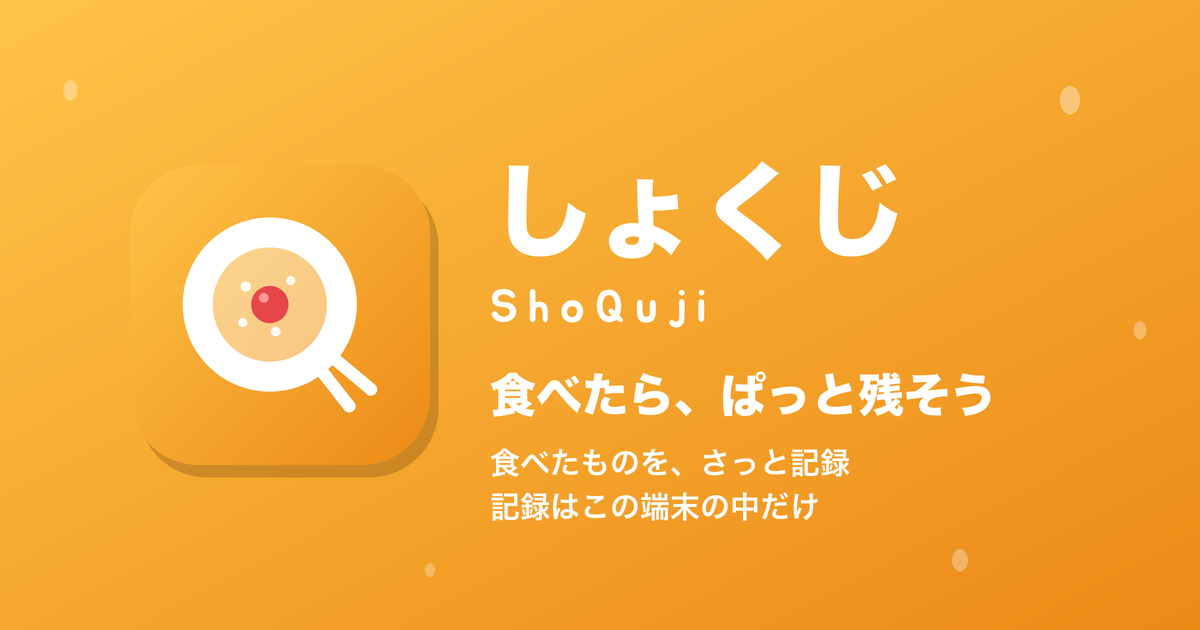
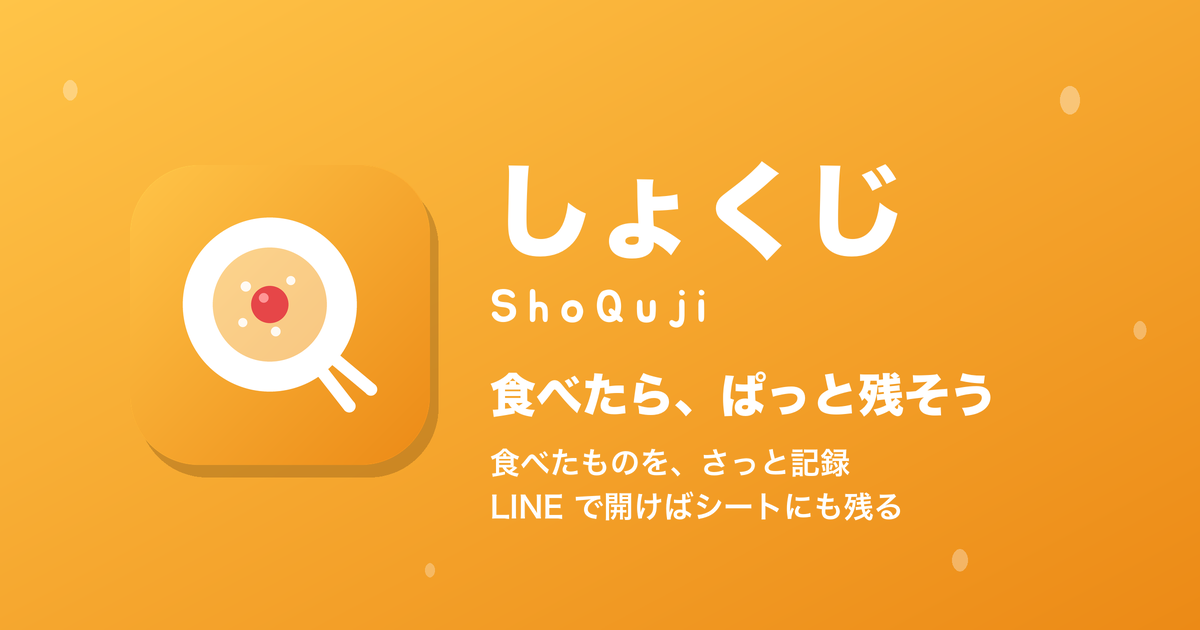
「記録はこの端末の中だけ」の古い説明を直す（OGP の画像と説明・manifest・はじめての使い方・README）：LINE で開くと食事記録ボットのシートにも残る。「💬 LINE で使う」に、LINE で開く良さを3行（シートにも残る・機種を変えてもボットの記録が出る・トークからも記録とお知らせ）。読みこむファイルの版をそろえる

Changed region(s): [[0.4008, 0.7841, 0.7708, 0.8444]]

diff --git a/index.html b/index.html
@@ -4,13 +4,13 @@
 <meta charset="UTF-8">
 <meta name="viewport" content="width=device-width, initial-scale=1, viewport-fit=cover">
 <title>しょくじ｜食べたものを、さっと記録</title>
-<meta name="description" content="しょくじ（ShoQuji）。食べたものとカロリー・PFC をさっと記録して、1日の合計や1週間のふりかえりを見られます。記録はこの端末の中だけ。LINE にカードで送れます。">
+<meta name="description" content="しょくじ（ShoQuji）。食べたものとカロリー・PFC をさっと記録して、1日の合計や1週間のふりかえりを見られます。ブラウザでは記録はこの端末の中に、LINE で開くと食事記録ボットのシートにも残ります。LINE にカードで送れます。">
 <meta property="og:type" content="website">
 <meta property="og:site_name" content="しょくじ（ShoQuji）">
 <meta property="og:title" content="しょくじ｜食べたものを、さっと記録">
-<meta property="og:description" content="食べたものをさっと記録。1日の合計・1週間のふりかえり。記録はこの端末の中だけで、LINE にカードで送れます。">
+<meta property="og:description" content="食べたものをさっと記録。1日の合計・1週間のふりかえり。LINE で開くと食事記録ボットのシートにも残り、トークからも記録できます。">
 <meta property="og:url" content="https://katsuan.github.io/shoquji/">
-<meta property="og:image" content="https://katsuan.github.io/shoquji/ogp.png?v=4">
+<meta property="og:image" content="https://katsuan.github.io/shoquji/ogp.png?v=5">
 <meta property="og:image:width" content="1200">
 <meta property="og:image:height" content="630">
 <meta property="og:image:alt" content="しょくじ（ShoQuji）：食べたものを、さっと記録">
@@ -28,7 +28,7 @@
 <link href="https://fonts.googleapis.com/css2?family=M+PLUS+Rounded+1c:wght@400;700;800&display=swap" rel="stylesheet">
 <!-- Q キット（おくるんの共通部品）。色と字は style.css の :root で、しょくじの色に -->
 <link rel="stylesheet" href="https://katsuan.github.io/line-share/shared/ui.css">
-<link rel="stylesheet" href="style.css?v=202610250200">
+<link rel="stylesheet" href="style.css?v=202610250300">
 </head>
 <body>
 <main class="ls-page ls-stack">
@@ -106,6 +106,12 @@
       <button class="line-guide-close" type="button" data-close-line-guide aria-label="LINE の案内を閉じる">✕ 閉じる</button>
     </div>
     <!-- 「LINEで開く」は、おくるん（Q キット）の共通の案内（LineShareLiff.outsideHelp） -->
+    <!-- LINE で開く良さ（言い切れることだけ） -->
+    <ul class="ls-hint line-merit">
+      <li>💾 LINE で開くと、記録が食事記録ボットのシートにも残ります。ブラウザだけの記録は、履歴を消したり機種を変えたりすると消えることがあります</li>
+      <li>📱 機種を変えても、LINE で開けばボットに入った記録が出ます（ここ60日分）</li>
+      <li>💬 ボットのトークに食べたものを送っても記録できます。20時の「記録がない日」のお知らせも選べます</li>
+    </ul>
     <div id="lineOutside"></div>
     <p class="ls-hint">横にめくると、4コマで使い方がわかります（閉じても「⚙ LINE とつなぐ」からまた見られます）。</p>
     <div class="line-guide" role="list" aria-label="LINE での使い方">
@@ -245,7 +251,7 @@
 <script src="https://katsuan.github.io/line-share/shared/ui.js" defer></script>
 <!-- 「LINEで開く」の共通の案内（LineShareLiff.outsideHelp） -->
 <script src="https://katsuan.github.io/line-share/shared/liff.js" defer></script>
-<script type="module" src="app.js?v=202610250200"></script>
+<script type="module" src="app.js?v=202610250300"></script>
 <script src="https://katsuan.github.io/line-share/shared/tool-share.js" data-tool="shoquji" defer></script>
 <!-- 電波がなくても開けるように（sw.js） -->
 <script>if ("serviceWorker" in navigator) navigator.serviceWorker.register("./sw.js").catch(() => {});</script>

diff --git a/app.js b/app.js
@@ -1,14 +1,14 @@
 // しょくじ（ShoQuji）：画面の操作。記録はこの端末の中だけ（js/store.js）、計算は js/stats.js
-import { MEALS, addLog, exportJson, importJson, load, markSent, num, removeLog, reset, restoreLog, save, updateLog } from "./js/store.js?v=202610250200";
-import { addDays, fmt, label, logsOf, mealNow, menus, streak, totals, week, ymd } from "./js/stats.js?v=202610250200";
-import { botLogsForView, cleanGasUrl, fromBotMeal, inLineApp, lineLogMessage, planSync, startLineLog, toBotMeal } from "./js/linelog.js?v=202610250200";
-import { LINE_LOG, OPEN_URL } from "./js/line-config.js?v=202610250200";
-import { byKey, dn, getProfile, initBotMenu, readProfile, resetProfile, saveProfile } from "./js/bot-menu.js?v=202610250200";
-import { cardUrl } from "./js/card.js?v=202610250200";
-import { writeDays } from "./js/days.js?v=202610250200";
-import { initLineGuide } from "./js/line-guide.js?v=202610250200";
-import { readLink } from "./js/link.js?v=202610250200";
-import { cancelRemoval, isWaiting, queueRemoval, waitingOwnIds } from "./js/removals.js?v=202610250200";
+import { MEALS, addLog, exportJson, importJson, load, markSent, num, removeLog, reset, restoreLog, save, updateLog } from "./js/store.js?v=202610250300";
+import { addDays, fmt, label, logsOf, mealNow, menus, streak, totals, week, ymd } from "./js/stats.js?v=202610250300";
+import { botLogsForView, cleanGasUrl, fromBotMeal, inLineApp, lineLogMessage, planSync, startLineLog, toBotMeal } from "./js/linelog.js?v=202610250300";
+import { LINE_LOG, OPEN_URL } from "./js/line-config.js?v=202610250300";
+import { byKey, dn, getProfile, initBotMenu, readProfile, resetProfile, saveProfile } from "./js/bot-menu.js?v=202610250300";
+import { cardUrl } from "./js/card.js?v=202610250300";
+import { writeDays } from "./js/days.js?v=202610250300";
+import { initLineGuide } from "./js/line-guide.js?v=202610250300";
+import { readLink } from "./js/link.js?v=202610250300";
+import { cancelRemoval, isWaiting, queueRemoval, waitingOwnIds } from "./js/removals.js?v=202610250300";
 
 const $ = (id) => document.getElementById(id);
 
@@ -782,6 +782,6 @@ document.addEventListener("visibilitychange", () => {
 // はじめての人にだけ、使い方を3つ（「わかった」で消え、二度と出さない）
 window.LineShareUI?.firstTip(
   "shoquji",
-  ["食べたものを入れて「＋ 記録する」。前に食べたものは、下のボタンを押すと入ります", "記録の名前を押すと直せます。✕ で消しても「元に戻す」で戻せます", "記録はこの端末の中だけ。💬 LINEで送ると、カードで見せられます"],
+  ["食べたものを入れて「＋ 記録する」。前に食べたものは、下のボタンを押すと入ります", "記録の名前を押すと直せます。✕ で消しても「元に戻す」で戻せます", "ブラウザでは記録はこの端末の中だけ。LINE で開くと、食事記録ボットのシートにも残ります"],
   document.querySelector(".days")
 );

diff --git a/js/bot-menu.js b/js/bot-menu.js
@@ -3,9 +3,9 @@
 //   - 目標・お知らせ・よく記録するものの固定を、ボットにも送る（saveProfile）
 //   - 「📌 よく記録するもの・MYメニュー」の欄：固定と並べかえ、MYメニューをさがして直す、LINE のリッチメニュー「⚡ よく記録」の見本と作りなおし
 // 画面の残り（記録・一覧など）とは、initBotMenu で受けとる ctx でつなぐ
-import { fmt } from "./stats.js?v=202610250200";
-import { lineLogMessage } from "./linelog.js?v=202610250200";
-import { drawQuickMenu, LAYOUT as RICH_LAYOUT } from "./meal-richmenu.js?v=202610250200";
+import { fmt } from "./stats.js?v=202610250300";
+import { lineLogMessage } from "./linelog.js?v=202610250300";
+import { drawQuickMenu, LAYOUT as RICH_LAYOUT } from "./meal-richmenu.js?v=202610250300";
 
 const $ = (id) => document.getElementById(id);
 const esc = (t) => String(t ?? "").replace(/[&<>"']/g, (c) => ({ "&": "&amp;", "<": "&lt;", ">": "&gt;", '"': "&quot;", "'": "&#39;" })[c]);

diff --git a/js/meal-richmenu.js b/js/meal-richmenu.js
@@ -2,7 +2,7 @@
 // ボタンの位置は、ボットの GAS（4_ui.richmenu.gs の RICH_MENU_LAYOUT）と同じ。描く字・色はボットの色（テラコッタ）のまま
 //   しょくじが描くのは、その人の「⚡ よく記録」タブだけ（よく記録するもの 6 品／ほかを入力・並べかえ）。
 //   全員共通の「📝 記録」の画像は、img/meal-richmenu-main.png（ボットの GAS が使う）
-import { fmt } from "./stats.js?v=202610250200";
+import { fmt } from "./stats.js?v=202610250300";
 
 export const LAYOUT = { width: 2500, height: 1686, tabHeight: 250, quickRows: 2, quickCols: 3, quickFooterHeight: 236, quickCount: 6 };
 const C = { bg: "#FBF3EE", card: "#FFFFFF", accent: "#C8553D", accentSoft: "#FDEEE8", ink: "#2D211C", sub: "#6B5E57", line: "#EFE1D9" };

diff --git a/js/link.js b/js/link.js
@@ -1,8 +1,8 @@
 // 食事記録ボットのカード・リッチメニューから開いたとき（?mode=input|logs|summary|quick&meal=…&menu=…&mealDate=…&logId=…）の指定を読む
 // LINE の中では LIFF が ?〜 に戻して届く。ブラウザで liff.line.me を開いたときは liff.state に入って届く
 // 受けるのは、日付・食事・名前・数字・どこを見るかだけ（つなぎ先などは受けとらない。W5）
-import { MEALS, num } from "./store.js?v=202610250200";
-import { addDays, ymd } from "./stats.js?v=202610250200";
+import { MEALS, num } from "./store.js?v=202610250300";
+import { addDays, ymd } from "./stats.js?v=202610250300";
 
 export function readLink(href = location.href) {
   const url = new URL(href);

diff --git a/docs/linelog-setup.html b/docs/linelog-setup.html
@@ -7,7 +7,7 @@
 <title>しょくじ｜自分の食事記録ボットとつなぐ</title>
 <link rel="icon" href="../icon.svg" type="image/svg+xml">
 <link rel="stylesheet" href="https://katsuan.github.io/line-share/shared/ui.css">
-<link rel="stylesheet" href="../style.css?v=202610250200">
+<link rel="stylesheet" href="../style.css?v=202610250300">
 <style>.doc h2 { margin: 1.4em 0 .4em; font-size: 18px; } .doc li { margin: .3em 0; } .doc code { overflow-wrap: anywhere; } .doc pre { overflow-x: auto; padding: 10px; border-radius: 10px; background: var(--ls-surface-sub); font-size: 13px; }</style>
 </head>
 <body>

diff --git a/js/linelog.js b/js/linelog.js
@@ -5,7 +5,7 @@
 // - ブラウザで開いたとき・設定が空のときは何もしない（しょくじは今までどおり端末の中だけ）
 // - つくりは、つづく（q-tuzuq）の js/linelog.js を写したもの。ボット側の受け口は line-meal-project の 6_web/6_webapp.gs
 //   （submitMealBatch・listMealLogs）
-import { LINE_LOG } from "./line-config.js?v=202610250200";
+import { LINE_LOG } from "./line-config.js?v=202610250300";
 
 const SDK = "https://static.line-scdn.net/liff/edge/2/sdk.js";
 const TIMEOUT_MS = 15000;

diff --git a/js/card.js b/js/card.js
@@ -1,6 +1,6 @@
 // 「💬 LINEで送る」のカード（おくるんのお知らせカード。line-share の shared/oqrn.js）と、食事記録ボットが読む記録用の文字
-import { MEALS } from "./store.js?v=202610250200";
-import { fmt, label } from "./stats.js?v=202610250200";
+import { MEALS } from "./store.js?v=202610250300";
+import { fmt, label } from "./stats.js?v=202610250300";
 
 const PAGE_URL = "https://katsuan.github.io/shoquji/";
 const CARD_COLOR = "#EC8A16"; // ロゴの玉子焼きの黄色

diff --git a/style.css b/style.css
@@ -179,3 +179,6 @@ body {
 .scale-row { align-items: center; gap: 6px; }
 .scale-row .scale-label { color: var(--ls-subtext); font-size: 13px; font-weight: 700; }
 .scale-row .ls-chip { min-height: 44px; }
+
+/* LINE で開く良さ（「💬 LINE で使う」の上。つづくと同じ形） */
+.line-merit { display: grid; gap: 4px; margin: 0 0 8px; padding-left: 0; list-style: none; }

diff --git a/js/stats.js b/js/stats.js
@@ -1,5 +1,5 @@
 // しょくじ：集計（画面に関係しない計算だけ）
-import { MEALS } from "./store.js?v=202610250200";
+import { MEALS } from "./store.js?v=202610250300";
 
 const WEEK = ["日", "月", "火", "水", "木", "金", "土"];
 

diff --git a/tools/icon.py b/tools/icon.py
@@ -104,7 +104,7 @@ def main():
     (ROOT / "logo.svg").write_text(teacup_logo(logo), encoding="utf-8")
     BRAND.write_ogp(
         ROOT / "ogp.png", SHAPES, "しょくじ", "ShoQuji",
-        ["食べたものを、さっと記録", "記録はこの端末の中だけ"], decorate,
+        ["食べたものを、さっと記録", "LINE で開けばシートにも残る"], decorate,
         copy="食べたら、ぱっと残そう",
     )
     print(f"アイコン・logo.svg（高さ 28px なら幅 {28 * ratio:.0f}px）・ogp.png を書き出しました")

diff --git a/README.md b/README.md
@@ -1,6 +1,6 @@
 # 🍚 しょくじ 〜ShoQuji〜
 
-食べたものとカロリー・PFC（たんぱく質・脂質・炭水化物）をさっと記録して、1日の合計や1週間のふりかえりを見られるツール。名前は「しょくじ」。英字は ShoQuji（「しょ・く・じ」の「く」を Q にする。くじ＝Qji・おくるん＝OQRN と同じ作り方）。GitHub Pages でそのまま動く静的サイトで、サーバーは使わない。
+食べたものとカロリー・PFC（たんぱく質・脂質・炭水化物）をさっと記録して、1日の合計や1週間のふりかえりを見られるツール。名前は「しょくじ」。英字は ShoQuji（「しょ・く・じ」の「く」を Q にする。くじ＝Qji・おくるん＝OQRN と同じ作り方）。GitHub Pages でそのまま動く静的サイト。ブラウザでは記録はこの端末の中だけ、LINE の中で開くと食事記録ボット（GAS）のシートにも残る。
 
 公開URL: https://katsuan.github.io/shoquji/
 
